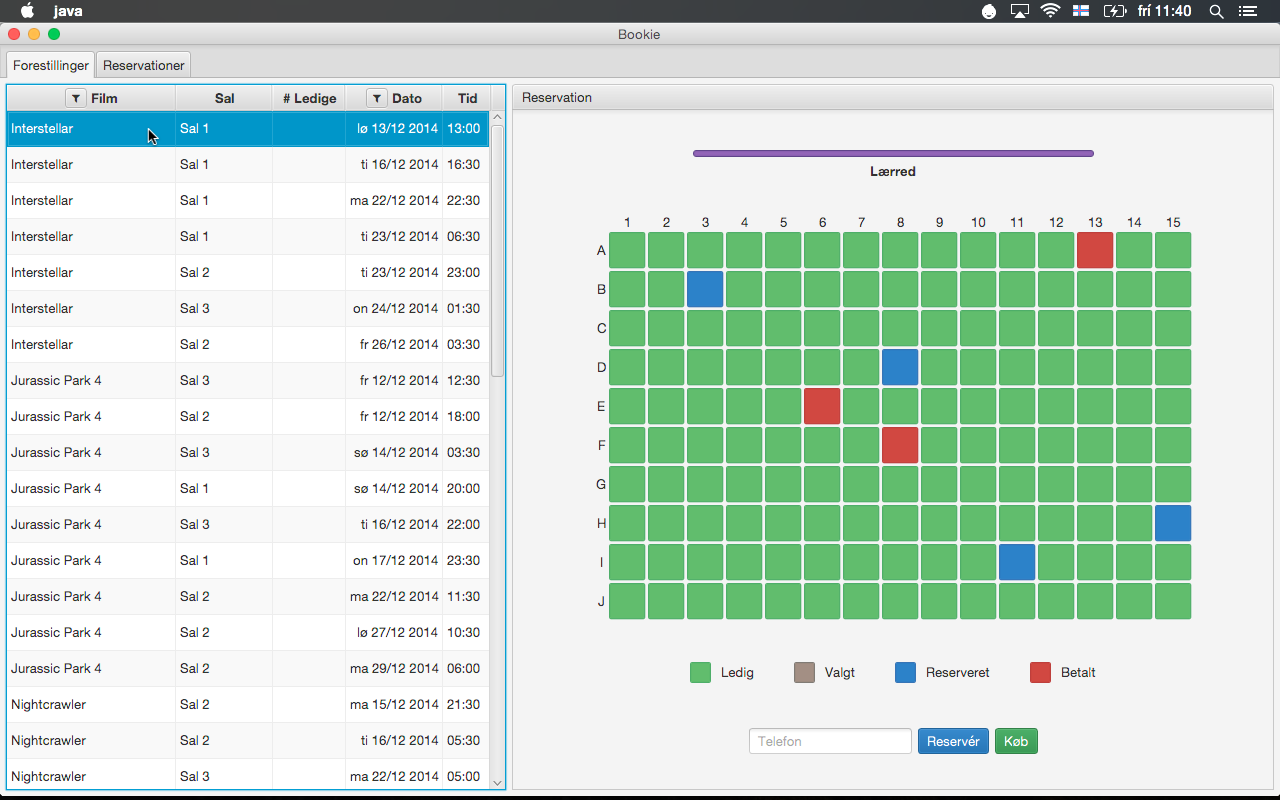
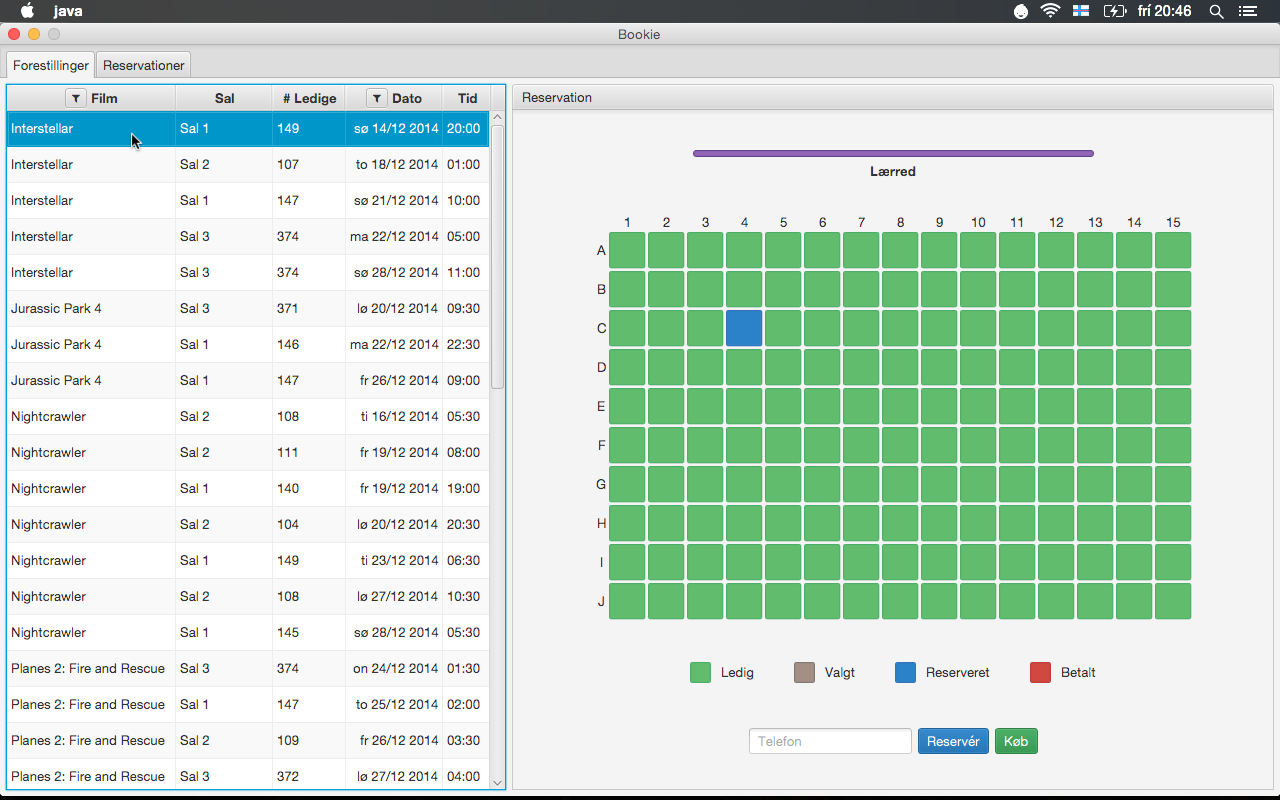
Brugervejledning og eksempel.

diff --git a/report/chapters/beskrivelse.tex b/report/chapters/beskrivelse.tex
@@ -2,11 +2,11 @@
 
 \section{Databaseabstraktion}
 
-I parallel med Bookie har vi udviklet en databaseabstraktion ved navn \textit{Donkey}. Donkey er bygget oven på JDBC (Java Database Connectivity) og har til formål at muliggøre persistens af datamodeller uden at en udvikler behøver skrive en eneste linje SQL. Dette opnås gennem såkaldt \textit{object-relational mapping} (forkortet \textit{ORM}), hvor et objekt i et objekt-orienteret system–i vores tilfælde Java–automatisk kan konverteres til en mere simpel struktur, som kan gemmes i et databasesystem (\cite{wiki:orm}).
+I parallel med Bookie har vi udviklet en databaseabstraktion ved navn \textit{Donkey}. Donkey er bygget oven på JDBC (Java Database Connectivity) og har til formål at muliggøre persistens af datamodeller uden at en udvikler behøver at skrive en eneste linje SQL. Dette opnås gennem såkaldt \textit{object-relational mapping} (forkortet \textit{ORM}), hvor et objekt i et objekt-orienteret system – i vores tilfælde Java – automatisk kan konverteres til en mere simpel struktur, som kan gemmes i et databasesystem (\cite{wiki:orm}).
 
 Donkey understøtter på nuværende tidspunkt tre forskellige relationelle databasesystemer: MySQL\footnote{\url{http://www.mysql.com/}}, PostgreSQL\footnote{\url{http://www.postgresql.org/}}, samt SQLite\footnote{\url{http://sqlite.org/}}. Mens Bookie udelukkende gør brug af SQLite, er understøttelse af de resterende databasesystemer medtaget for at sikre en solid løsning, som kan tage forbehold for eventuelle forskelle mellem databasesystemer.
 
-Donkeys grundlæggende byggedele er baserede på Laravels\footnote{\url{http://laravel.com/}} API'er, da disse allerede var en af forfatterne kendte. Konceptuelt låner Donkey begreberne om \textit{Grammars}, \textit{Queries}, samt \textit{Schemas} og benytter disse til at implementere ORM i form af \textit{Models}. En datamodel i Donkey er i sidste ende derfor ikke andet end en klasse, som repræsenterer en tabel i en relationsdatabase, og en række offentlige felter i denne klasse, som repræsenterer tabellens kolonner og datatyperne af disse. Dette er igen relateret til Laravel og dens \textit{Eloquent ORM}\footnote{\url{http://laravel.com/docs/4.2/eloquent}} dog med den forskel, at Donkeys implementation af ORM endnu ikke er nær så fleksibel som Laravels.
+Donkeys grundlæggende byggedele er baserede på Laravels\footnote{\url{http://laravel.com/}} API'er, da disse allerede var en af forfatterne kendte. Konceptuelt låner Donkey begreberne om \textit{Grammars}, \textit{Queries}, samt \textit{Schemas} og benytter disse til at implementere ORM i form af \textit{Models}. En datamodel i Donkey er derfor i sidste ende ikke andet end en klasse, som repræsenterer en tabel i en relationsdatabase, og en række offentlige felter i denne klasse, som repræsenterer tabellens kolonner og datatyperne af disse. Dette er igen relateret til Laravel og dens \textit{Eloquent ORM}\footnote{\url{http://laravel.com/docs/4.2/eloquent}} dog med den forskel, at Donkeys implementation af ORM endnu ikke er nær så fleksibel som Laravels.
 
 Helt konkret består Donkey af følgende klasser:
 
@@ -28,7 +28,7 @@ Helt konkret består Donkey af følgende klasser:
 \end{itemize}
 \end{multicols}
 
-Donkey er fra bunden opbygget efter \textit{dependency injection} designmønstret, hvor afhængigheder injiceres i afhængende klasser frem for selv at lade de afhængende klasser finde og instantiere deres afhængigheder (\cite{wiki:di}). Dette designmønster har vi fulgt, da det gav større kontrol over, hvorledes afhængigheder flød igennem systemet. Eftersom \texttt{Grammar}-klassen er en afhængighed i næsten samtlige andre klasser (mere om dette følger), og da \texttt{Grammar} er abstrakt med de konkerete implementationer \texttt{My\-Sql\-Grammar}, \texttt{Postgre\-Sql\-Grammar}, og \texttt{Sqlite\-Grammar}, ville det have været yderst besværligt at opbygge systemet, hvis ikke denne grundlæggende afhængighed kunne injiceres i de afhængende klasser. Figur \ref{class-diagram:database-abstraction} forsøger at tydeliggøre, hvorledes de forskellige afhængigheder flyder gennem systemet samt hvordan disse injiceres i de afhængende klasser.
+Donkey er fra bunden opbygget efter \textit{dependency injection} designmønstret, hvor afhængigheder injiceres i afhængende klasser, frem for selv at lade de afhængende klasser finde og instantiere deres afhængigheder (\cite{wiki:di}). Dette designmønster har vi fulgt, da det gav større kontrol over, hvorledes afhængigheder flød igennem systemet. Eftersom \texttt{Grammar}-klassen er en afhængighed i næsten samtlige andre klasser (mere om dette følger), og da \texttt{Grammar} er abstrakt med de konkerete implementationer \texttt{My\-Sql\-Grammar}, \texttt{Postgre\-Sql\-Grammar}, og \texttt{Sqlite\-Grammar}, ville det have været yderst besværligt at opbygge systemet, hvis ikke denne grundlæggende afhængighed kunne injiceres i de afhængende klasser. Figur \ref{class-diagram:database-abstraction} forsøger at tydeliggøre, hvorledes de forskellige afhængigheder flyder gennem systemet samt hvordan disse injiceres i de afhængende klasser.
 
 \begin{figure}[h]
   \centering
@@ -97,7 +97,7 @@ Alle SQL-forespørgsler bliver eksekverede som \texttt{Prepared\-Statement}s\foo
 
 Ovenstående er årsagen til inklusionen af metoder som \texttt{compile\-Select\-Values()}, \texttt{compile\-Insert\-Values()}, m.v. som set i figur \ref{class-diagram:grammar-class}. Disse bliver brugt til at kompilere lister af de værdier, som måtte være blevet erstattede med \texttt{?}-tegn i de kompilerede SQL-udtryk.
 
-Slutteligt står \texttt{Database} for at tolke de \texttt{Result\-Set}s, som måtte resultere fra SQL-forespørgsler. Efter hver forespørgsel gennemløbes det resulterende \texttt{Result\-Set} og oversættes til en liste af \texttt{Row}s. Forbindelsen til det pågældende \texttt{Result\-Set} kan herefter lukkes, mens indholdet–nu oversat til \texttt{Row}s–kan returneres til kalderen.
+Slutteligt står \texttt{Database} for at tolke de \texttt{Result\-Set}s, som måtte resultere fra SQL-forespørgsler. Efter hver forespørgsel gennemløbes det resulterende \texttt{Result\-Set} og oversættes til en liste af \texttt{Row}s. Forbindelsen til det pågældende \texttt{Result\-Set} kan herefter lukkes, mens indholdet – nu oversat til \texttt{Row}s – kan returneres til kalderen.
 
 Givet et konkret \texttt{Grammar}-objekt (\texttt{g}) kan SQL eksekveres mod en server på følgende måde:
 

diff --git a/report/chapters/vejledning.tex b/report/chapters/vejledning.tex
@@ -26,54 +26,92 @@ I dette eksempel er der blevet sorteret efter film, hvorefter der er blevet valg
   \label{screenshot: chosen-showtime}
 \end{figure}
 
+\newpage
+
 \subsection{Vælg sæder}
 
-Sæderne er angivet i rækker og kolonner, hvor rækkerne har fået navne efter alfabetet og kolonnerne efter tal. Dette gør det meget nemt at beskrive hvor i salen de valgte sæder befinder sig. Holder ekspedienten musen hen over et af de grønne sæder, og trykker på det, resulterer det i at sædet får en grå farve (dette kan også ses i legenden i \ref{screenshot: chosen-seats1}).
+Sæderne er angivet i rækker og kolonner, hvor rækkerne har fået navne efter alfabetet og kolonnerne efter tal. Dette gør det meget nemt at beskrive hvor i salen de valgte sæder befinder sig. Holder ekspedienten musen hen over et af de grønne sæder, og trykker på det, resulterer det i at sædet får en grå farve (dette kan også ses i legenden i \ref{screenshot: chosen-seats}).
 
 \begin{figure} [h]
   \centering
-  \includegraphics[width=0.4\textwidth]{chosen-seats1.png}
+  \includegraphics[width=0.4\textwidth]{chosen-seats.png}
   \caption{Valgte sæder}
-  \label{screenshot: chosen-seats1}
+  \label{screenshot: chosen-seats}
 \end{figure}
 
 \subsection{Indtast telefonnummer}
 
-Efter at sæderne er blevet valgte, er det muligt at indtaste et telefonnummer (\ref{screenshot: phone-number1}). Trykker man derefter på \textit{Reservér} knappen, ændrer sæderne farve og bliver blå. Hvilket viser ekspedienten, at reservationen er gennemført. Ses også i \ref{screenshot: booked-seats1}
+Efter at sæderne er blevet valgte, er det muligt at indtaste et telefonnummer (\ref{screenshot: phone-number}). Trykker man derefter på \textit{Reservér} knappen, ændrer sæderne farve og bliver blå. Hvilket viser ekspedienten, at reservationen er gennemført. Ses også i \ref{screenshot: booked-seats}
 
 \begin{figure} [h]
   \centering
-  \includegraphics[width=0.4\textwidth]{phone-number1.png}
+  \includegraphics[width=0.4\textwidth]{phone-number.png}
   \caption{Telefonnummer bliver indtastet.}
-  \label{screenshot: phone-number1}
+  \label{screenshot: phone-number}
 \end{figure}
 
 \begin{figure} [h]
   \centering
-  \includegraphics[width=0.4\textwidth]{booked-seats1.png}
+  \includegraphics[width=0.4\textwidth]{booked-seats.png}
   \caption{Reserverede sæder.}
-  \label{screenshot: booked-seats1}
+  \label{screenshot: booked-seats}
 \end{figure}
 
 \section{Reservationer}
 
 \subsection{Gå til Reservationer}
-Efter at sæderne er reserverede, er der blevet oprettet billetter inde i Reservationer. Alle de eksisterende reservationer kan ses inde på \textit{Reservationer} oppe i venstre hjørne (\ref{screenshot: go-to-reservations1}). Her er også muligt at redigere eller slette dem.
+Efter at sæderne er reserverede, er der blevet oprettet billetter inde i Reservationer. Alle de eksisterende reservationer kan ses inde på \textit{Reservationer} oppe i venstre hjørne (\ref{screenshot: go-to-reservations}).
 
 \begin{figure} [h]
   \centering
   \includegraphics[width=0.4\textwidth]{go-to-reservations.png}
   \caption{Gå til alle reservationer.}
-  \label{screenshot: go-to-reservations1}
+  \label{screenshot: go-to-reservations}
+\end{figure}
+
+Alle reservationerne er vist på en liste, som er mulig at sortere efter eget valg. Både film, dag/tidspunkt, sal, antal billetter (hvis ekspedienten evt. skulle få lyst til det). 
+
+\begin{figure} [h]
+  \centering
+  \includegraphics[width=0.4\textwidth]{all-reservations.png}
+  \caption{Gå til alle reservationer.}
+  \label{screenshot: all-reservations}
 \end{figure}
 
 \subsection{Filtrering af telefonnumre}
 
-Øverst i venstre hjørne af denne side er der et felt til filtrering af telefonnumre (\ref{screenshot: filter1}).
+Øverst i venstre hjørne af denne side er der et felt til filtrering af telefonnumrene (\ref{screenshot: filter3}). Dette gør det overskueligt at finde den enkelte reservation, når den skal redigeres eller slettes. 
 
 \begin{figure} [h]
   \centering
-  \includegraphics[width=0.4\textwidth]{filter1.png}
+  \includegraphics[width=0.4\textwidth]{filter3.png}
   \caption{Filtrering af numre.}
-  \label{screenshot: filter1}
+  \label{screenshot: filter3}
+\end{figure}
+
+\subsection{Redigering af reservationer}
+
+Når den eftersøgte reservation er fundet via filtreringen, kan ekspedienten hurtigt redigere dem ved at trykke på knappen ude i højre side, so
+
+\begin{figure} [h]
+  \centering
+  \includegraphics[width=0.4\textwidth]{edit-button.png}
+  \caption{Filtrering af numre.}
+  \label{screenshot: edit-button}
+\end{figure}
+
+\subsection{Sletning af reservationer}
+
+\begin{figure} [h]
+  \centering
+  \includegraphics[width=0.4\textwidth]{delete-button.png}
+  \caption{Filtrering af numre.}
+  \label{screenshot: delete-button}
+\end{figure}
+
+\begin{figure} [h]
+  \centering
+  \includegraphics[width=0.4\textwidth]{delete-reservation.png}
+  \caption{Filtrering af numre.}
+  \label{screenshot: delete-reservation}
 \end{figure}

diff --git a/src/main/java/dk/itu/bookie/controller/ShowtimeController.java b/src/main/java/dk/itu/bookie/controller/ShowtimeController.java
@@ -29,6 +29,7 @@ import javafx.geometry.VPos;
 
 // JavaFX collections
 import javafx.collections.FXCollections;
+import javafx.collections.ListChangeListener;
 import javafx.collections.ObservableSet;
 
 // JavaFX properties
@@ -38,6 +39,7 @@ import javafx.beans.property.ReadOnlyObjectWrapper;
 
 // JavaFX bindings
 import javafx.beans.binding.NumberBinding;
+import javafx.beans.binding.StringBinding;
 import javafx.beans.binding.When;
 
 // FXML utilities
@@ -95,7 +97,7 @@ public final class ShowtimeController {
    * The column containing the number of available seats in the auditorium.
    */
   @FXML
-  private TableColumn<Showtime, Integer> availableColumn;
+  private TableColumn<Showtime, String> availableColumn;
 
   /**
    * The column containing the date that the movie is playing.
@@ -195,6 +197,27 @@ public final class ShowtimeController {
 
     this.auditoriumColumn.setCellValueFactory((data) -> {
       return new SimpleStringProperty(data.getValue().auditorium.name);
+    });
+
+    this.availableColumn.setCellValueFactory((data) -> {
+      Showtime showtime = data.getValue();
+
+      SimpleStringProperty availableSeats = new SimpleStringProperty();
+
+      availableSeats.set(this.countAvailableSeats(showtime).toString());
+
+      try {
+        ApplicationController.reservations().addListener(
+          (ListChangeListener.Change<? extends Reservation> c) -> {
+            availableSeats.set(this.countAvailableSeats(showtime).toString());
+          }
+        );
+      }
+      catch (SQLException ex) {
+        // Nopes.
+      }
+
+      return availableSeats;
     });
 
     this.dateColumn.setCellValueFactory((data) -> {
@@ -617,5 +640,18 @@ public final class ShowtimeController {
     }
 
     this.makeReservation(buy);
+  }
+
+  private Integer countAvailableSeats(final Showtime showtime) {
+    Auditorium auditorium = showtime.auditorium;
+
+    int totalSeatCount = auditorium.rows * auditorium.seats;
+    int reservedSeatCount = 0;
+
+    for (Reservation reservation: showtime.reservations) {
+      reservedSeatCount += reservation.tickets.size();
+    }
+
+    return totalSeatCount - reservedSeatCount;
   }
 }

diff --git a/src/main/java/dk/itu/bookie/model/Auditorium.java b/src/main/java/dk/itu/bookie/model/Auditorium.java
@@ -23,12 +23,12 @@ public final class Auditorium extends Model {
   /**
    * Number of rows in the auditorium.
    */
-  public int rows;
+  public Integer rows;
 
   /**
    * Number of seats per row in the auditorium.
    */
-  public int seats;
+  public Integer seats;
 
   /**
    * Initialize an auditorium.
